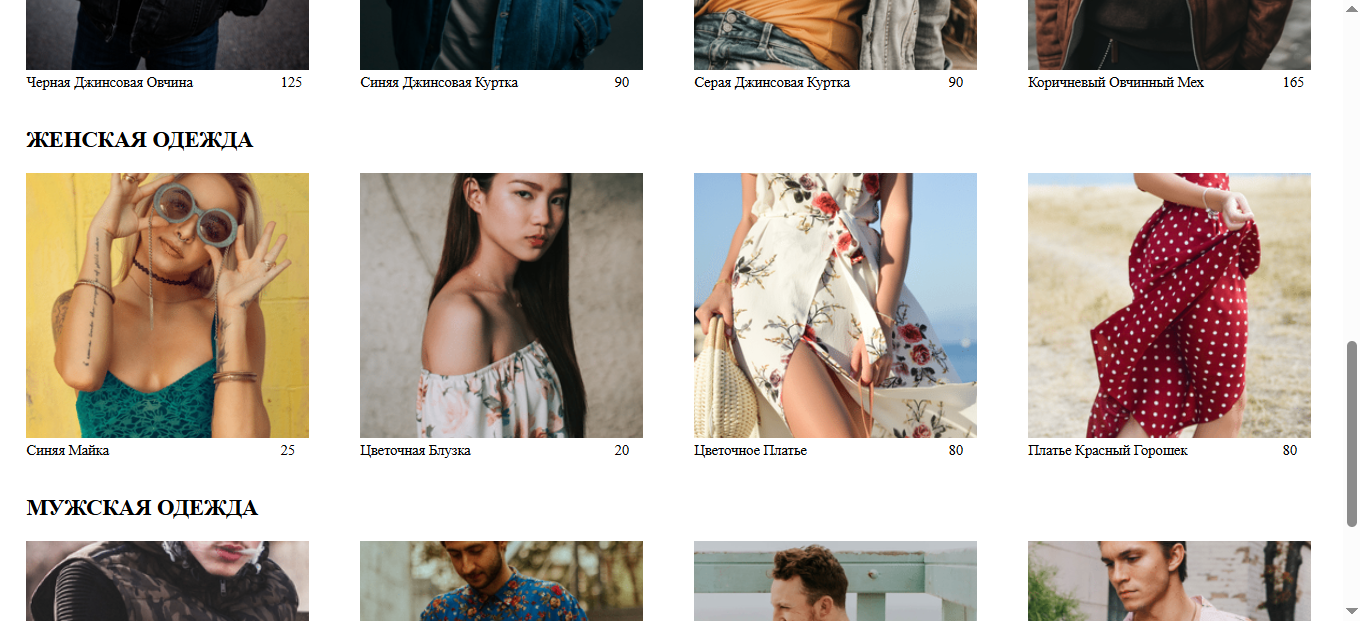
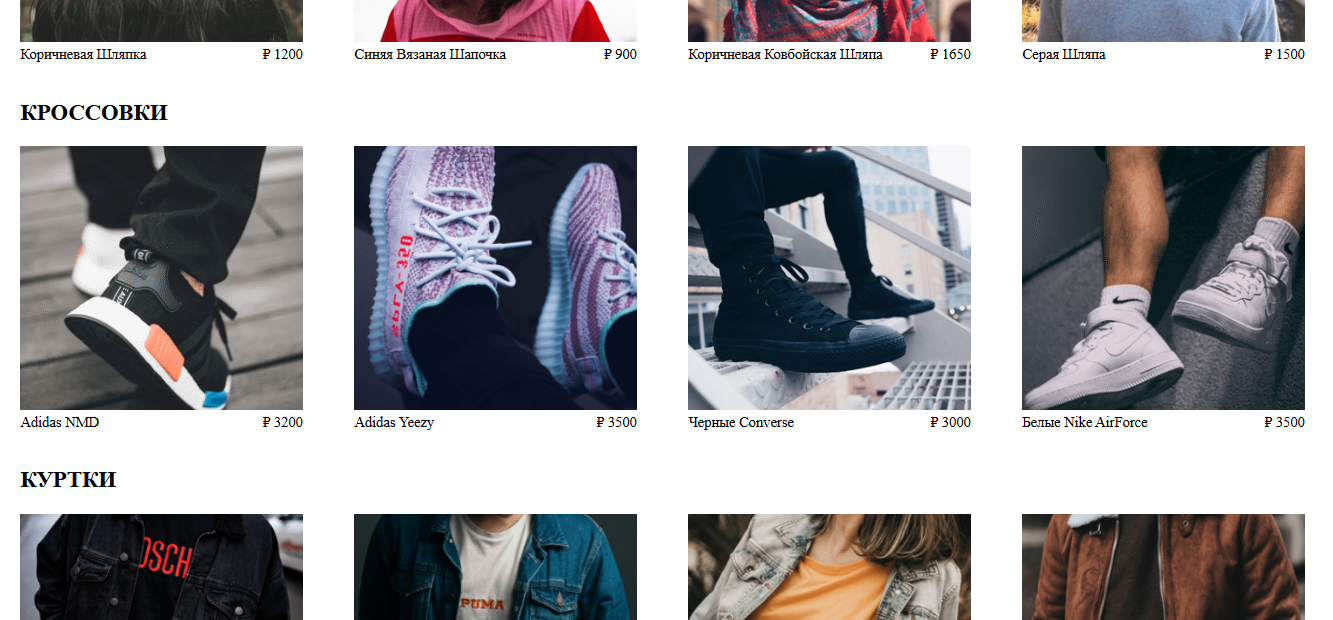
updated img

diff --git a/src/pages/shop/shop.data.js b/src/pages/shop/shop.data.js
@@ -8,55 +8,55 @@ const SHOP_DATA = [
         id: 1,
         name: "Коричневая Шляпка",
         imageUrl: "https://i.ibb.co/ZYW3VTp/brown-brim.png",
-        price: 25,
+        price: 1200,
       },
       {
         id: 2,
         name: "Синяя Вязаная Шапочка",
         imageUrl: "https://i.ibb.co/ypkgK0X/blue-beanie.png",
-        price: 18,
+        price: 900,
       },
       {
         id: 3,
         name: "Коричневая Ковбойская Шляпа",
         imageUrl: "https://i.ibb.co/QdJwgmp/brown-cowboy.png",
-        price: 35,
+        price: 1650,
       },
       {
         id: 4,
         name: "Серая Шляпа",
         imageUrl: "https://i.ibb.co/RjBLWxB/grey-brim.png",
-        price: 25,
+        price: 1500,
       },
       {
         id: 5,
         name: "Коричневая Вязаная Шапочка",
         imageUrl: "https://i.ibb.co/YTjW3vF/green-beanie.png",
-        price: 18,
+        price: 1100,
       },
       {
         id: 6,
         name: "Кепка Пальмовое Дерево",
         imageUrl: "https://i.ibb.co/rKBDvJX/palm-tree-cap.png",
-        price: 14,
+        price: 700,
       },
       {
         id: 7,
         name: "Красная Вязаная Шапочка",
         imageUrl: "https://i.ibb.co/bLB646Z/red-beanie.png",
-        price: 18,
+        price: 900,
       },
       {
         id: 8,
         name: "Кепка Оранжевый Волк",
         imageUrl: "https://i.ibb.co/1f2nWMM/wolf-cap.png",
-        price: 14,
+        price: 1050,
       },
       {
         id: 9,
         name: "Синяя Кепка",
         imageUrl: "https://i.ibb.co/X2VJP2W/blue-snapback.png",
-        price: 16,
+        price: 1000,
       },
     ],
   },
@@ -69,49 +69,49 @@ const SHOP_DATA = [
         id: 10,
         name: "Adidas NMD",
         imageUrl: "https://i.ibb.co/0s3pdnc/adidas-nmd.png",
-        price: 220,
+        price: 3200,
       },
       {
         id: 11,
         name: "Adidas Yeezy",
         imageUrl: "https://i.ibb.co/dJbG1cT/yeezy.png",
-        price: 280,
+        price: 3500,
       },
       {
         id: 12,
         name: "Черные Converse",
         imageUrl: "https://i.ibb.co/bPmVXyP/black-converse.png",
-        price: 110,
+        price: 3000,
       },
       {
         id: 13,
         name: "Белые Nike AirForce",
         imageUrl: "https://i.ibb.co/1RcFPk0/white-nike-high-tops.png",
-        price: 160,
+        price: 3500,
       },
       {
         id: 14,
         name: "Красные Nike High Tops",
         imageUrl: "https://i.ibb.co/QcvzydB/nikes-red.png",
-        price: 160,
+        price: 3700,
       },
       {
         id: 15,
         name: "Коричневые Nike High Tops",
         imageUrl: "https://i.ibb.co/fMTV342/nike-brown.png",
-        price: 160,
+        price: 3100,
       },
       {
         id: 16,
         name: "Air Jordan Limited",
         imageUrl: "https://i.ibb.co/w4k6Ws9/nike-funky.png",
-        price: 190,
+        price: 2900,
       },
       {
         id: 17,
         name: "Timberlands",
         imageUrl: "https://i.ibb.co/Mhh6wBg/timberlands.png",
-        price: 200,
+        price: 2700,
       },
     ],
   },
@@ -124,31 +124,31 @@ const SHOP_DATA = [
         id: 18,
         name: "Черная Джинсовая Овчина",
         imageUrl: "https://i.ibb.co/XzcwL5s/black-shearling.png",
-        price: 125,
+        price: 4000,
       },
       {
         id: 19,
         name: "Синяя Джинсовая Куртка",
         imageUrl: "https://i.ibb.co/mJS6vz0/blue-jean-jacket.png",
-        price: 90,
+        price: 3500,
       },
       {
         id: 20,
         name: "Серая Джинсовая Куртка",
         imageUrl: "https://i.ibb.co/N71k1ML/grey-jean-jacket.png",
-        price: 90,
+        price: 3200,
       },
       {
         id: 21,
         name: "Коричневый Овчинный Мех",
         imageUrl: "https://i.ibb.co/s96FpdP/brown-shearling.png",
-        price: 165,
+        price: 4200,
       },
       {
         id: 22,
         name: "Tan Trench",
         imageUrl: "https://i.ibb.co/M6hHc3F/brown-trench.png",
-        price: 185,
+        price: 3600,
       },
     ],
   },
@@ -161,43 +161,43 @@ const SHOP_DATA = [
         id: 23,
         name: "Синяя Майка",
         imageUrl: "https://i.ibb.co/7CQVJNm/blue-tank.png",
-        price: 25,
+        price: 700,
       },
       {
         id: 24,
         name: "Цветочная Блузка",
         imageUrl: "https://i.ibb.co/4W2DGKm/floral-blouse.png",
-        price: 20,
+        price: 900,
       },
       {
         id: 25,
         name: "Цветочное Платье",
         imageUrl: "https://i.ibb.co/KV18Ysr/floral-skirt.png",
-        price: 80,
+        price: 1500,
       },
       {
         id: 26,
         name: "Платье Красный Горошек",
         imageUrl: "https://i.ibb.co/N3BN1bh/red-polka-dot-dress.png",
-        price: 80,
+        price: 1700,
       },
       {
         id: 27,
         name: "Полосатый Свитер",
         imageUrl: "https://i.ibb.co/KmSkMbH/striped-sweater.png",
-        price: 45,
+        price: 1900,
       },
       {
         id: 28,
         name: "Желтый Спортивный Костюм",
         imageUrl: "https://i.ibb.co/v1cvwNf/yellow-track-suit.png",
-        price: 135,
+        price: 2200,
       },
       {
         id: 29,
         name: "Белая Блузка",
         imageUrl: "https://i.ibb.co/qBcrsJg/white-vest.png",
-        price: 20,
+        price: 1300,
       },
     ],
   },
@@ -210,37 +210,37 @@ const SHOP_DATA = [
         id: 30,
         name: "Камуфляжный Пуховый Жилет",
         imageUrl: "https://i.ibb.co/xJS0T3Y/camo-vest.png",
-        price: 325,
+        price: 2800,
       },
       {
         id: 31,
         name: "Футболка Цветочный Принт",
         imageUrl: "https://i.ibb.co/qMQ75QZ/floral-shirt.png",
-        price: 20,
+        price: 1400,
       },
       {
         id: 32,
         name: "Черно-белая Футболка с Длинным Рукавом",
         imageUrl: "https://i.ibb.co/55z32tw/long-sleeve.png",
-        price: 25,
+        price: 1300,
       },
       {
         id: 33,
         name: "Розовая Футболка",
         imageUrl: "https://i.ibb.co/RvwnBL8/pink-shirt.png",
-        price: 25,
+        price: 1050,
       },
       {
         id: 34,
         name: "Джинсовая Куртка С Длинным Рукавом",
         imageUrl: "https://i.ibb.co/VpW4x5t/roll-up-jean-shirt.png",
-        price: 40,
+        price: 2100,
       },
       {
         id: 35,
         name: "Бордовая Футболка",
         imageUrl: "https://i.ibb.co/mh3VM1f/polka-dot-shirt.png",
-        price: 25,
+        price: 900,
       },
     ],
   },

diff --git a/src/components/cart-icon/cart-icon.component.jsx b/src/components/cart-icon/cart-icon.component.jsx
@@ -8,10 +8,10 @@ import { ReactComponent as ShoppingIcon } from "../../assets/shopping-icon.svg";
 import "./cart-icon.styles.scss";
 
 // Иконка корзины с номером количества товара внутри
-const CartIcon = ({ toggleCartHidden }) => (
+const CartIcon = ({ toggleCartHidden, itemCount }) => (
   <div className="cart-icon" onClick={toggleCartHidden}>
     <ShoppingIcon className="shopping-icon" />
-    <span className="item-count">0</span>
+    <span className="item-count">{itemCount}</span>
   </div>
 );
 
@@ -19,4 +19,11 @@ const mapDispatchToProps = (dispatch) => ({
   toggleCartHidden: () => dispatch(toggleCartHidden()),
 });
 
-export default connect(null, mapDispatchToProps)(CartIcon);
+const mapStateToProps = ({ cart: { cartItems } }) => ({
+  itemCount: cartItems.reduce(
+    (accumulatedQantity, cartItem) => accumulatedQantity + cartItem.quantity,
+    0
+  ),
+});
+
+export default connect(mapStateToProps, mapDispatchToProps)(CartIcon);

diff --git a/src/components/cart-item/cart-item.component.jsx b/src/components/cart-item/cart-item.component.jsx
@@ -2,16 +2,19 @@ import React from "react";
 
 import "./cart-item.styles.scss";
 
-const CartItem = ({ item: { imageUrl, price, name, quantity } }) => (
-  <div className="cart-item">
-    <img src={imageUrl} alt="item" />
-    <div className="item-details">
-      <span className="name">{name}</span>
-      <span className="price">
-        {quantity} x S{price}
-      </span>
+const CartItem = ({ item: { imageUrl, price, name, quantity } }) => {
+  const totalPrice = quantity * price;
+  return (
+    <div className="cart-item">
+      <img src={imageUrl} alt="item" />
+      <div className="item-details">
+        <span className="name">{name}</span>
+        <span className="price">
+          {quantity} x ₽{price} = ₽{totalPrice}
+        </span>
+      </div>
     </div>
-  </div>
-);
+  );
+};
 
 export default CartItem;

diff --git a/src/components/collection-item/collection-item.component.jsx b/src/components/collection-item/collection-item.component.jsx
@@ -19,7 +19,7 @@ const CollectionItem = ({ item, addItem }) => {
       />
       <div className="collection-footer">
         <span className="name">{name}</span>
-        <span className="price">{price}</span>
+        <span className="price">₽ {price}</span>
       </div>
       <CustomButton onClick={() => addItem(item)} inverted>
         Добавить в корзину

diff --git a/src/components/cart-dropdown/cart-dropdown.styles.scss b/src/components/cart-dropdown/cart-dropdown.styles.scss
@@ -1,7 +1,7 @@
 .cart-dropdown {
   position: absolute;
-  width: 240px;
-  height: 340px;
+  width: 300px;
+  height: 400px;
   display: flex;
   flex-direction: column;
   padding: 20px;
@@ -12,7 +12,7 @@
   z-index: 5;
 
   .cart-items {
-    height: 240px;
+    height: 290px;
     display: flex;
     flex-direction: column;
     overflow: scroll;

diff --git a/src/components/collection-item/collection-item.styles.scss b/src/components/collection-item/collection-item.styles.scss
@@ -46,7 +46,7 @@
     }
 
     .price {
-      width: 10%;
+      white-space: nowrap;
     }
   }
 }

diff --git a/README.md b/README.md
@@ -17,15 +17,17 @@ Firebase следит за экземплярами приложения, кот
 !['Скриншот проекта 1'](img/screenshot_01_homepage.PNG)<br />
 **Страница магазина с предпросмотром доступных коллекций одежды:**<br />
 !['Скриншот проекта 2'](img/screenshot_02_shoppage_cloth_collections.PNG)<br />
+**Добавление выбранного товара в корзину, просмотр добавленного товара в выпадающем меню иконки корзины:**<br />
+!['Скриншот проекта 2'](img/screenshot_03_adding_to_cart.PNG)<br />
 **Firebase провайдеры для приложения:**<br />
-!['Скриншот проекта 3'](img/screenshot_03_sign-in-and-up-firebase-providers.PNG)<br />
+!['Скриншот проекта 3'](img/screenshot_04_sign-in-and-up-firebase-providers.PNG)<br />
 **Регистрация пользователя в приложении:**<br />
-!['Скриншот проекта 4'](img/screenshot_04_typed_wrong_registration_password.PNG)<br />
+!['Скриншот проекта 4'](img/screenshot_05_typed_wrong_registration_password.PNG)<br />
 **Создание пользователя в базе данных Firebase Datastore:**<br />
-!['Скриншот проекта 5'](img/screenshot_05_create_user_in_database.PNG)<br />
+!['Скриншот проекта 5'](img/screenshot_06_create_user_in_database.PNG)<br />
 **Вход пользователя в приложение через Google аккаунт пользователя:**<br />
-!['Скриншот проекта 6'](img/screenshot_06_sign_in_with_google.PNG)<br />
+!['Скриншот проекта 6'](img/screenshot_07_sign_in_with_google.PNG)<br />
 **Вход пользователя в приложение по электронной почте и паролю:**<br />
-!['Скриншот проекта 7'](img/screenshot_07_sign_in_with_email_password.PNG)<br />
+!['Скриншот проекта 7'](img/screenshot_08_sign_in_with_email_password.PNG)<br />
 **Аутентификация пользователя в Firebase authentication:**<br />
-!['Скриншот проекта 8'](img/screenshot_08_sign_in_with_google_firebase_auth.PNG)<br />
+!['Скриншот проекта 8'](img/screenshot_09_sign_in_with_google_firebase_auth.PNG)<br />
